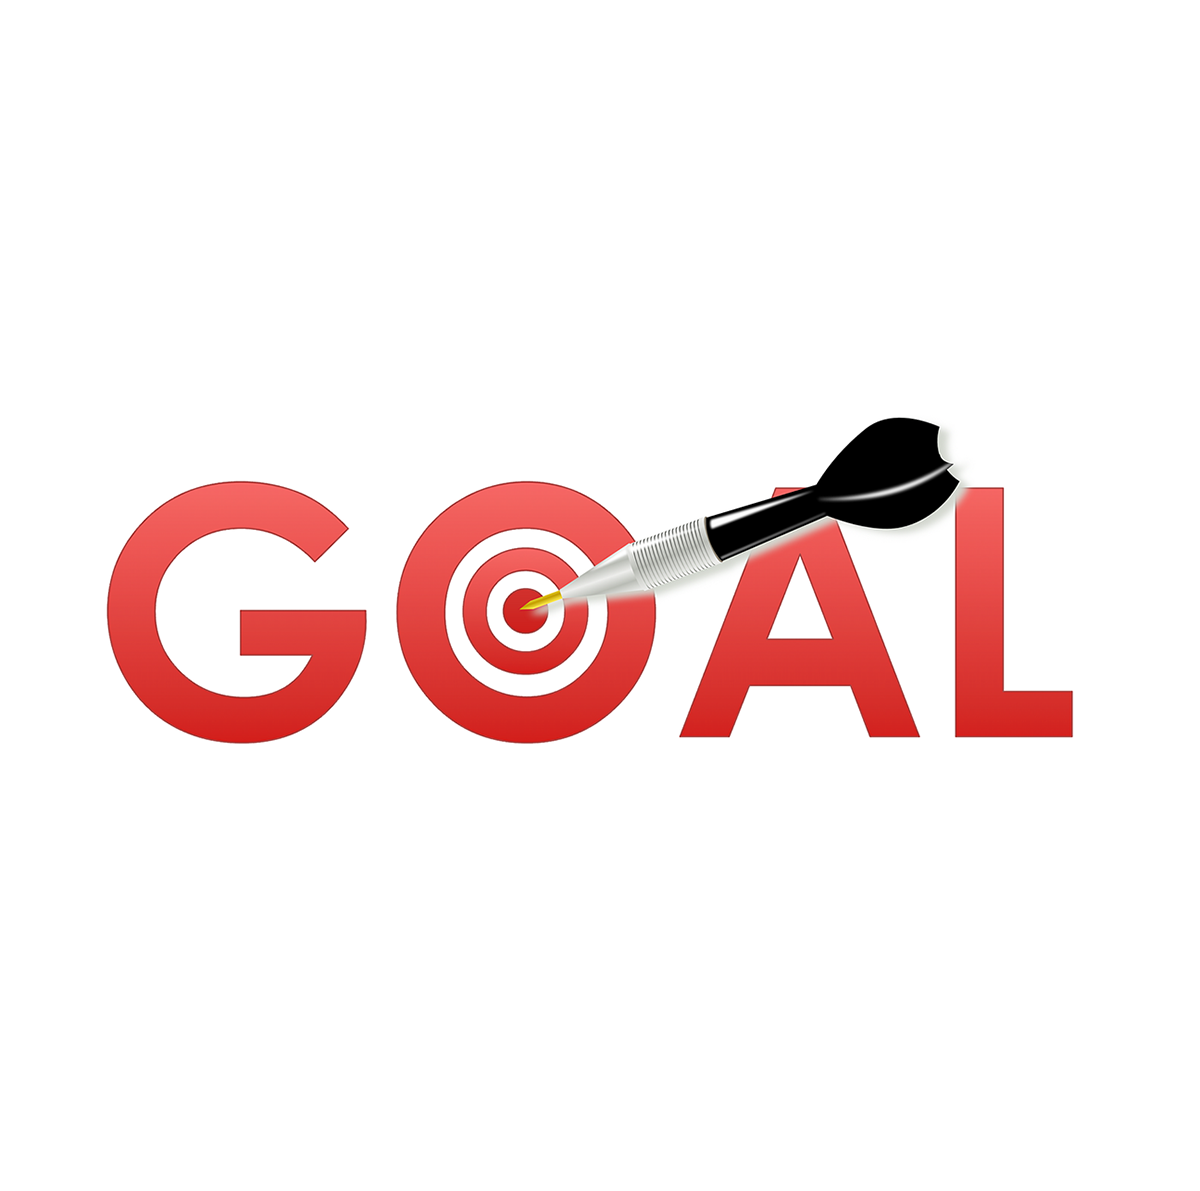
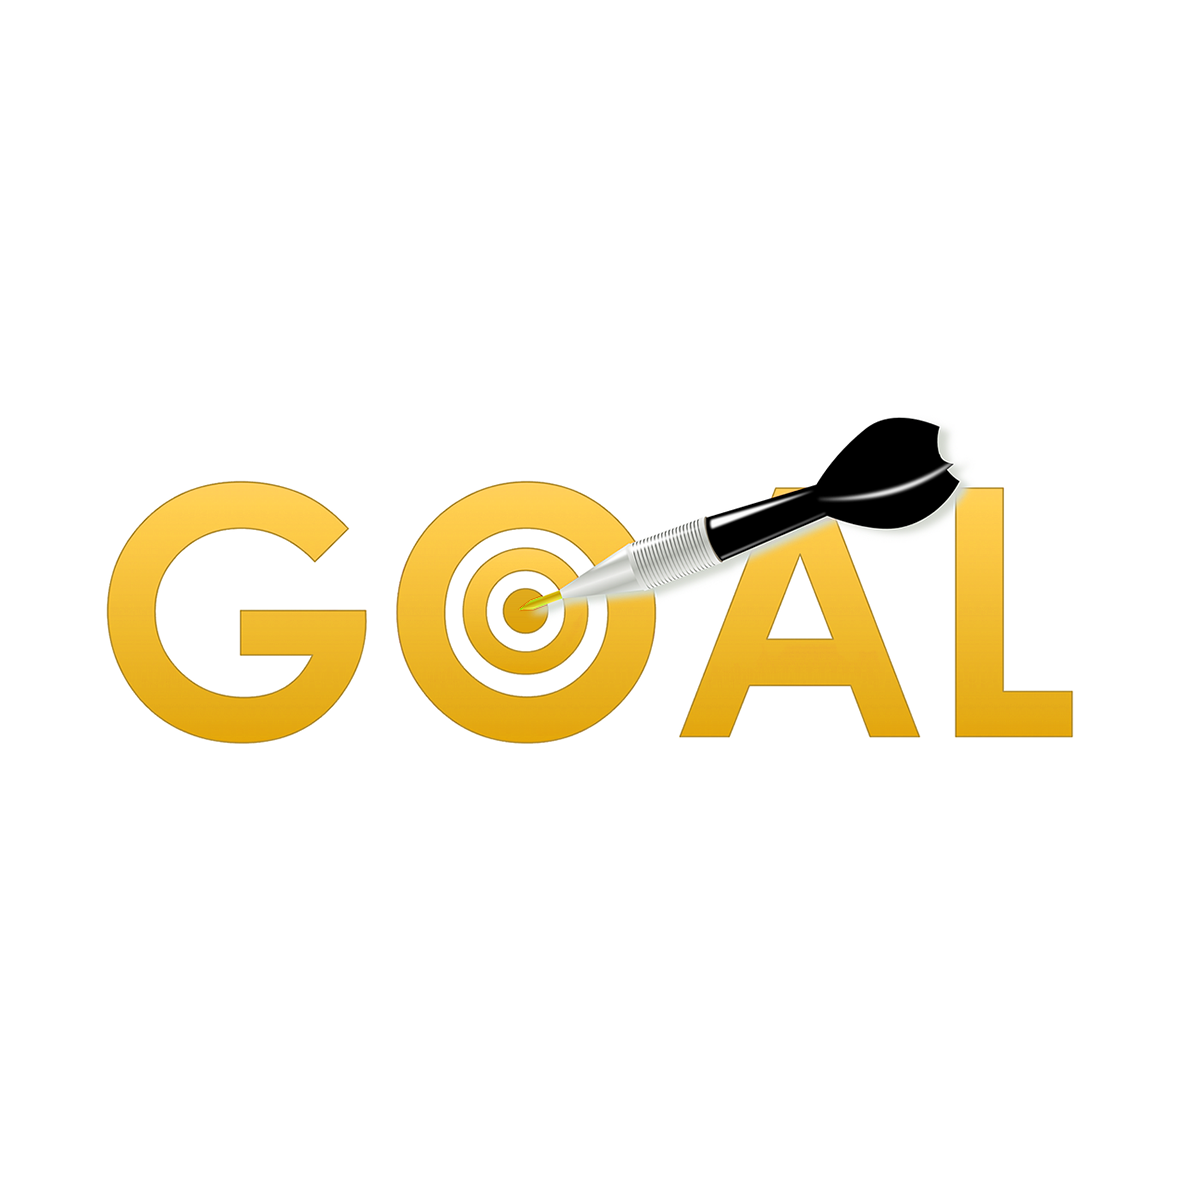
Edited text on Index page, Changed and edited Jumbo photo and featurette photo on About page, Fixed the issue of Navbar on medium screen, added picture to the 3rd featurette
edited photos in photoshop( changed the original colors for being more cohesive with the website theme, made New identity favicon), changed +@media (max-width: 768px) to 760 as nav links disappered on med size screen, edited text on jumbotron in about page.

Changed region(s): [[0.0617, 0.4039, 0.8942, 0.6213]]

diff --git a/Midterm- Blue Novation/Pages/About.html b/Midterm- Blue Novation/Pages/About.html
@@ -60,13 +60,13 @@
 
     <div class="jumbotron jumbotron-fluid " id="MyJumbo">
 
-        <div class="container col-md-5  text-center mt-5 ">
+        <div class="container col-md-8 text-center text-md-left ml-0  mt-5 mb-3">
 
             <h1 class="header text-light  ">About Us</h1>
 
-            <small class=" text-light "> We have been around since 2004 and were blessed give the best service to our
+            <p class="text-light About-Jumbo-P"> We have been around since 2004 and were blessed give the best service to our
                 amazing clients. We show you how to enjoy life and the experience the world that you have never knew it
-                is exited before. Our experienced Staff can make you an expert in any water sport activity. </small>
+                is exited before. Our experienced Staff can make you an expert in any water sport activity. </p>
 
             <div class="discover-container mt-4">
                 <a href="#" class="bg-warning btn text-dark active btn-sm" target="-blank" role="button"
@@ -79,14 +79,17 @@
         <div class="col-md-7"></div>
     </div>
 
- <!--jumbotron Ends-->
+    <!--jumbotron Ends-->
 
     <div class="container">
         <div class="row">
-            <div class="col-md-6 About-wrap text-center">
-                <h2 class="lead mb-5"> YOUR JOY AND HAPPINESS IS IMPORTANT TO US! </h2>
-                <p>We are also 100% positive the world would be a better place if everyone spent 1 hour a day in a
-                    Blue Novation.</p>
+            <div class="col-md-6 About-wrap text-center mb-3">
+                <h2 class="mb-4"> YOUR HAPPINESS IS IMPORTANT TO US! </h2>
+                <div class="SVG d-flex justify-content-start mb-5 pl-4">
+                    <svg id="Layer_1" data-name="Layer 1" xmlns="http://www.w3.org/2000/svg" viewBox="0 0 408 100.09"><defs><style>.cls-1{fill:none;stroke:#007bff;stroke-linecap:round;stroke-linejoin:round;stroke-width:65px;}</style></defs><path class="cls-1" d="M151.5,184.5s82.53-48,168-7c75,36,139.23,11.87,175-17" transform="translate(-119 -128)"/></svg>
+                </div>
+                <p>We are also 100% positive the world would be a better place if everyone would spent couple hours a day enjoying their life in 
+                    <span class="font-weight-bold text-primary Blue-Novation">Blue <span>Novation</span></span>!</p>
             </div>
             <div class="col-md-6">
                 <img src="../Assets/About-img.jpg" class="card-img-top" alt="...">
@@ -94,7 +97,7 @@
             </div>
         </div>
     </div>
-   
+
 
 
 
@@ -108,17 +111,17 @@
 
 
         <div class="row featurette mb-5">
-            <div class="col-md-7 order-md-2 pl-md-5  bg-light py-5">
+            <div class="col-md-7 order-md-2 pl-md-5  bg-light py-5 m-auto m-lg-0 Text-Featurette">
                 <h2 class="featurette-heading">Our Mission</h2>
-                <p class="lead mt-4 mb-4">Our Mission at Blue Notion is to be the best through out the California.</p>
-                <a class="text-danger" href="#">Read more..<span class="pl-3">&#8594;</span>
+                <p class="lead mt-4 mb-4">We believe that being creative and fun work at the same time!  <span class="d-none d-lg-block">Our Mission at Blue Notion is to be the best through out the California.</p></span>
+                <a class="text-primary" href="#">Read more..<span class="pl-3">&#8594;</span>
                 </a>
             </div>
 
             <div class="col-md-5">
                 <picture>
-                    <source media="(min-width: 1200px)" srcset="../Assets/goal500.png">
-                    <source media="(min-width: 768px)" srcset="../Assets/goal270.png">
+                    <source media="(min-width: 1200px)" srcset="../Assets/goal500.jpg">
+                    <source media="(min-width: 768px)" srcset="../Assets/goal270.jpg">
                     <img src="../Assets/goal.png" alt="BlueNovationStory" class="w-100">
                 </picture>
             </div>
@@ -126,11 +129,13 @@
         </div>
 
         <div class="row featurette mb-5">
-            <div class="col-md-7  bg-light py-5 pl-md-5">
+            <div class="col-md-7  bg-light py-5 pl-md-5 m-auto m-lg-0 Text-Featurette">
                 <h2 class="featurette-heading ">Our Story</h2>
-                <p class="lead mt-4  mb-4">Blue Notion have been around proudly since 2004.</p>
-               
-                <a class="text-danger" href="#">Read more..<span class="pl-3">&#8594;</span></a>
+                <p class="lead mt-4  mb-4">Blue Novation have been around proudly since 2004. <span
+                        class="d-none d-lg-block">When Marti began teaching friends and family to surf at Ocean Park
+                        Beach, he never dreamed it would turn into a booming business.</p></span>
+
+                <a class="text-primary" href="#">Read more..<span class="pl-3">&#8594;</span></a>
             </div>
 
             <div class="col-md-5">
@@ -147,18 +152,18 @@
 
 
         <div class="row featurette mb-5">
-            <div class="col-md-7 order-md-2 pl-md-5  bg-light py-5">
-                <h2 class="featurette-heading">Our Mission</h2>
-                <p class="lead mt-4 mb-4">Our Mission at Blue Notion is to be the best through out the California.</p>
-                <a class="text-danger" href="#">Read more..<span class="pl-3">&#8594;</span>
+            <div class="col-md-7 order-md-2 pl-md-5  bg-light py-5 m-auto m-lg-0 Text-Featurette">
+                <h2 class="featurette-heading">Why Blue Novation</h2>
+                <p class="lead mt-4 mb-4">Our company's name has an interesting story. <span class="d-none d-lg-block">The name came from when Marti (the founder) came up with a very unique idea of a new water sport activity.</p></span>
+                <a class="text-primary" href="#">Read more..<span class="pl-3">&#8594;</span>
                 </a>
             </div>
 
             <div class="col-md-5">
                 <picture>
-                    <source media="(min-width: 1200px)" srcset="../Assets/goal500.png">
-                    <source media="(min-width: 768px)" srcset="../Assets/goal270.png">
-                    <img src="../Assets/goal.png" alt="BlueNovationStory" class="w-100">
+                    <source media="(min-width: 1200px)" srcset="../Assets/WBN500.png">
+                    <source media="(min-width: 768px)" srcset="../Assets/WBN270.png">
+                    <img src="../Assets/WBN.png" alt="BlueNovationStory" class="w-100">
                 </picture>
             </div>
 
@@ -189,10 +194,10 @@
     <script src="https://stackpath.bootstrapcdn.com/bootstrap/4.4.1/js/bootstrap.min.js"
         integrity="sha384-wfSDF2E50Y2D1uUdj0O3uMBJnjuUD4Ih7YwaYd1iqfktj0Uod8GCExl3Og8ifwB6" crossorigin="anonymous">
     </script>
-<script src="../script.js"></script>
+    <script src="../script.js"></script>
 
 
-    
+
 </body>
 
 </html>

diff --git a/Midterm- Blue Novation/Index.html b/Midterm- Blue Novation/Index.html
@@ -66,22 +66,22 @@
             </ol>-->
             <div class="carousel-inner">
                 <div class="carousel-item active">
-                    <img src="Assets/Jumbo-1.jpg" class="d-block w-100" alt="Sunset1">
-                    <div class="carousel-caption d-none d-md-block">
+                    <img src="Assets/Jumbo-1.jpg" class="d-block w-100 mt-5" alt="Sunset1">
+                    <div class="carousel-caption d-none d-md-block pb-0">
                         <h5>Amazing Facts</h5>
-                        <p class="mb-0">The Doorway To The Deep Is Actually The Doorway To Enchantment</p>
+                        <p class="mb-0">The Doorway To The Deep Is The Doorway To Enchantment</p>
                     </div>
                 </div>
                 <div class="carousel-item">
-                    <img src="Assets/Index-Carousel1.jpg" class="d-block w-100" alt="Sunset2">
-                    <div class="carousel-caption d-none d-md-block">
+                    <img src="Assets/Index-Carousel1.jpg" class="d-block w-100 mt-5" alt="Sunset2">
+                    <div class="carousel-caption d-none d-md-block pb-0">
                         <h5>Amazing Facts</h5>
                         <p class="mb-0">Humans Are Land Version Of Whales And Dolphins</p>
                     </div>
                 </div>
                 <div class="carousel-item">
-                    <img src="Assets/Index-carousel2.jpg" class="d-block w-100" alt="sunset3">
-                    <div class="carousel-caption d-none d-md-block">
+                    <img src="Assets/Index-carousel2.jpg" class="d-block w-100 mt-5" alt="sunset3">
+                    <div class="carousel-caption d-none d-md-block pb-0">
                         <h5>Amazing Facts</h5>
                         <p class="mb-0">Here We Introduce You To What You Never Knew Before</p>
                     </div>
@@ -111,7 +111,7 @@
             </div>
             <div class="col-md-5  bg-light text-center text-md-left">
                 <h2 class="pt-4 pt-lg-5">A whole day of FUN!</h2>
-                <p class="pt-3"> Do you want to exprience what you haven't before? <span class="d-none d-lg-block">We would love to show you the blue ocean with a different perspective! </span></p>
+                <p class="pt-3"> Do you want to exprience unique water sports? <span class="d-none d-lg-block">We would love to show you the blue ocean with a different perspective! </span></p>
 
                 <div class="col mt-5 mb-5 pl-0">
                     <a href="#" class="bg-dark btn text-light active btn-sm" target="_blank" role="button"

diff --git a/Midterm- Blue Novation/main.css b/Midterm- Blue Novation/main.css
@@ -14,7 +14,6 @@
 body{
     background-color: #F0EDEA;
     letter-spacing: .9px;
-    line-height: 28px;
 }
 
 header {
@@ -117,7 +116,7 @@ nav ul li:hover a span:nth-child(1) {
 
 
 
-@media (max-width: 768px) {
+@media (max-width: 760px) {
   
 
 
@@ -381,11 +380,11 @@ h2{
 
 
 .jumbotron {
-    background-image: linear-gradient(#000000bd, #000000bd), url(Assets/About-Jombo3.jpg);
+    background-image: linear-gradient(#000000bd, #000000bd), url(Assets/About-Jumbo.jpg);
     background-size: cover;
     background-blend-mode: darken;
     background-repeat: no-repeat;
-    background-position: right;
+    background-position: left 30px;
 }
 
 .About-wrap h2{
@@ -407,7 +406,7 @@ h2{
 /*service card effect end*/
 
 .subscribe-modal{
-    background-color: rgba(0, 0, 0, 0.69);
+    background-color: rgba(4, 21, 40, .75);
 }
 
 .modal-header, .modal-footer{
@@ -479,5 +478,32 @@ input[type="name"]::placeholder {
 #PricelistModal h4,h5{
     font-size: 1rem;
 }
+.Text-Featurette{
+    width: 345px;
+}
 
+.SVG svg{
+    width: 50px;
+}
 
+.text-center h2{
+    font-size: 1.75rem;
+    font-family: Deluce;
+}
+
+.About-Jumbo-P{
+    font-size: .9rem;
+    line-height: 25px;
+}
+
+.Blue-Novation{
+    font-family: deluce;
+}
+
+.Blue-Novation span{
+    color: #00214a;
+}
+
+.featurette h2{
+    font-family: deluce;
+}

diff --git a/Midterm- Blue Novation/Pages/Team.html b/Midterm- Blue Novation/Pages/Team.html
@@ -57,11 +57,6 @@
     <!--Navigation Ends-->
 
 
-    <!--jumbotron Starts-->
-
-    
-
- <!--jumbotron Ends-->
 
     <div class="container-fluid p-0">
         <div class="row no-gutters">
@@ -89,6 +84,9 @@
             </div>
         </div>
     </div>
+
+
+
 
     <div class="Staff-Bio">
         <h3></h3>
